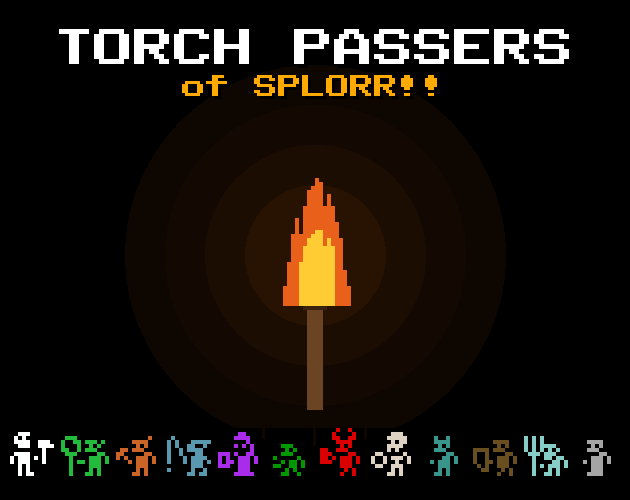
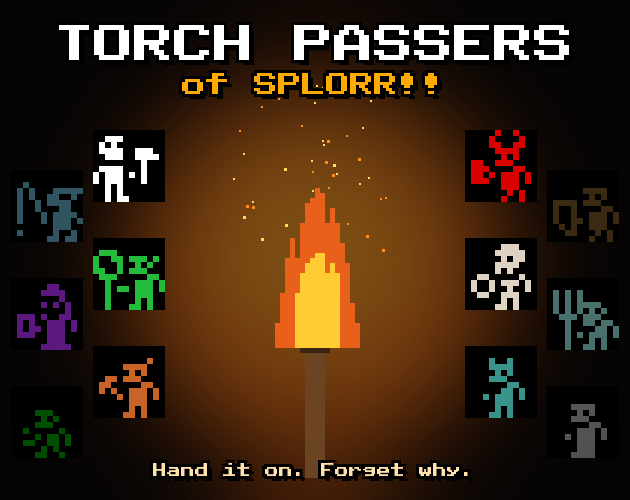
Redraw cover: smooth glow, sparks, lit family either side of the torch, tagline

diff --git a/tools/make_cover.py b/tools/make_cover.py
@@ -53,38 +53,70 @@ def main():
     sheet = Image.open("assets/urizen.png").convert("RGBA")
     face = lambda c, r: sheet.crop((13 * c + 1, 13 * r + 1, 13 * c + 13, 13 * r + 13))
     font = "tools/cover/PublicPixel.ttf"
-    cover = Image.new("RGBA", (630, 500), (0, 0, 0, 255))
+    from PIL import ImageFilter, ImageEnhance
+    cover = Image.new("RGBA", (630, 500), (6, 4, 4, 255))
 
-    def centered(img, y, dx=0):
-        cover.alpha_composite(img, ((630 - img.width) // 2 + dx, y))
-
-    # a soft glow behind the flame, then the torch at 4x
+    # a smooth glow behind the flame
     glow = Image.new("RGBA", (630, 500), (0, 0, 0, 0))
     gd = ImageDraw.Draw(glow)
-    for r, a in ((190, 14), (150, 20), (110, 28), (70, 40)):
-        gd.ellipse((315 - r, 255 - r, 315 + r, 255 + r), fill=(255, 120, 20, a))
+    gd.ellipse((315 - 230, 270 - 230, 315 + 230, 270 + 230), fill=(255, 110, 20, 110))
+    gd.ellipse((315 - 120, 250 - 120, 315 + 120, 250 + 120), fill=(255, 170, 40, 120))
+    glow = glow.filter(ImageFilter.GaussianBlur(60))
     cover.alpha_composite(glow)
-    t = torch(8, 5).resize((160, 320), Image.NEAREST)
-    centered(t, 98)
 
-    shadow = lettering(font, "TORCH PASSERS", 40, (0, 0, 0))
-    main_text = lettering(font, "TORCH PASSERS", 40, (255, 255, 255))
-    x = (630 - main_text.width) // 2
-    cover.alpha_composite(shadow, (x + 4, 24 + 4))
-    cover.alpha_composite(main_text, (x, 24))
-    sub = lettering(font, "of SPLORR!!", 24, ORANGE)
-    sub_shadow = lettering(font, "of SPLORR!!", 24, (0, 0, 0))
-    sx = (630 - sub.width) // 2
-    cover.alpha_composite(sub_shadow, (sx + 3, 72 + 3))
-    cover.alpha_composite(sub, (sx, 72))
+    # sparks drifting up from the flame
+    sp = Image.new("RGBA", (630, 500), (0, 0, 0, 0))
+    sd = ImageDraw.Draw(sp)
+    for i in range(46):
+        ang = noise(i * 3.7)
+        x = 315 + int((noise(i * 5.1) - 0.5) * 150 * (0.4 + ang))
+        y = 270 - int(noise(i * 9.3) * 190)
+        sz = 3 if noise(i * 1.9) > 0.6 else 2
+        col = (255, 220, 90) if noise(i * 2.3) > 0.5 else (255, 140, 30)
+        sd.rectangle((x, y, x + sz - 1, y + sz - 1), fill=col + (255,))
+    cover.alpha_composite(sp)
 
-    # the family, in a row, each one a little worse for wear
+    # the family queues up either side, lit less the further from the flame
     faces = [FOUNDER] + HEIRS[:11]
-    scale, gap = 4, 3
-    total = len(faces) * 12 * scale + (len(faces) - 1) * gap
-    x0 = (630 - total) // 2
-    for i, (c, r) in enumerate(faces):
-        cover.alpha_composite(face(c, r).resize((12 * scale, 12 * scale), Image.NEAREST), (x0 + i * (12 * scale + gap), 428))
+    scale = 6
+    slots = []
+    for side in (-1, 1):
+        for col in range(2):
+            for row in range(3):
+                x = 315 + side * (150 + col * 82) - (72 if side < 0 else 0) + (0 if side < 0 else 0)
+                y = 130 + row * 108 + col * 40
+                slots.append((x, y, col))
+    for i, (x, y, col) in enumerate(slots):
+        c, r = faces[i % len(faces)]
+        f = face(c, r).resize((12 * scale, 12 * scale), Image.NEAREST)
+        f = ImageEnhance.Brightness(f).enhance(1.0 if col == 0 else 0.55)
+        back = Image.new("RGBA", f.size, (30, 18, 14, 255))
+        cover.alpha_composite(back, (x, y))
+        cover.alpha_composite(f, (x, y))
+
+    # vignette
+    v = Image.new("L", (630, 500), 0)
+    ImageDraw.Draw(v).ellipse((-120, -80, 750, 580), fill=255)
+    v = v.filter(ImageFilter.GaussianBlur(70))
+    black = Image.new("RGBA", (630, 500), (0, 0, 0, 255))
+    black.putalpha(Image.eval(v, lambda p: 255 - p))
+    cover.alpha_composite(black)
+
+    t = torch(8, 5).resize((200, 400), Image.NEAREST)
+    cover.alpha_composite(t, (215, 88))
+
+    def centered(img, y):
+        cover.alpha_composite(img, ((630 - img.width) // 2, y))
+    def outlined(txt, size, rgb, y):
+        main_t = lettering(font, txt, size, rgb)
+        dark = lettering(font, txt, size, (0, 0, 0))
+        x = (630 - main_t.width) // 2
+        for dx, dy in ((-3, 0), (3, 0), (0, -3), (0, 3), (3, 3), (-3, 3), (3, -3), (-3, -3), (5, 5)):
+            cover.alpha_composite(dark, (x + dx, y + dy))
+        cover.alpha_composite(main_t, (x, y))
+    outlined("TORCH PASSERS", 40, (255, 255, 255), 20)
+    outlined("of SPLORR!!", 24, ORANGE, 70)
+    outlined("Hand it on. Forget why.", 14, (255, 225, 170), 462)
     os.makedirs("assets", exist_ok=True)
     cover.convert("RGB").save("assets/cover.png")
     print("assets/cover.png", cover.size)
